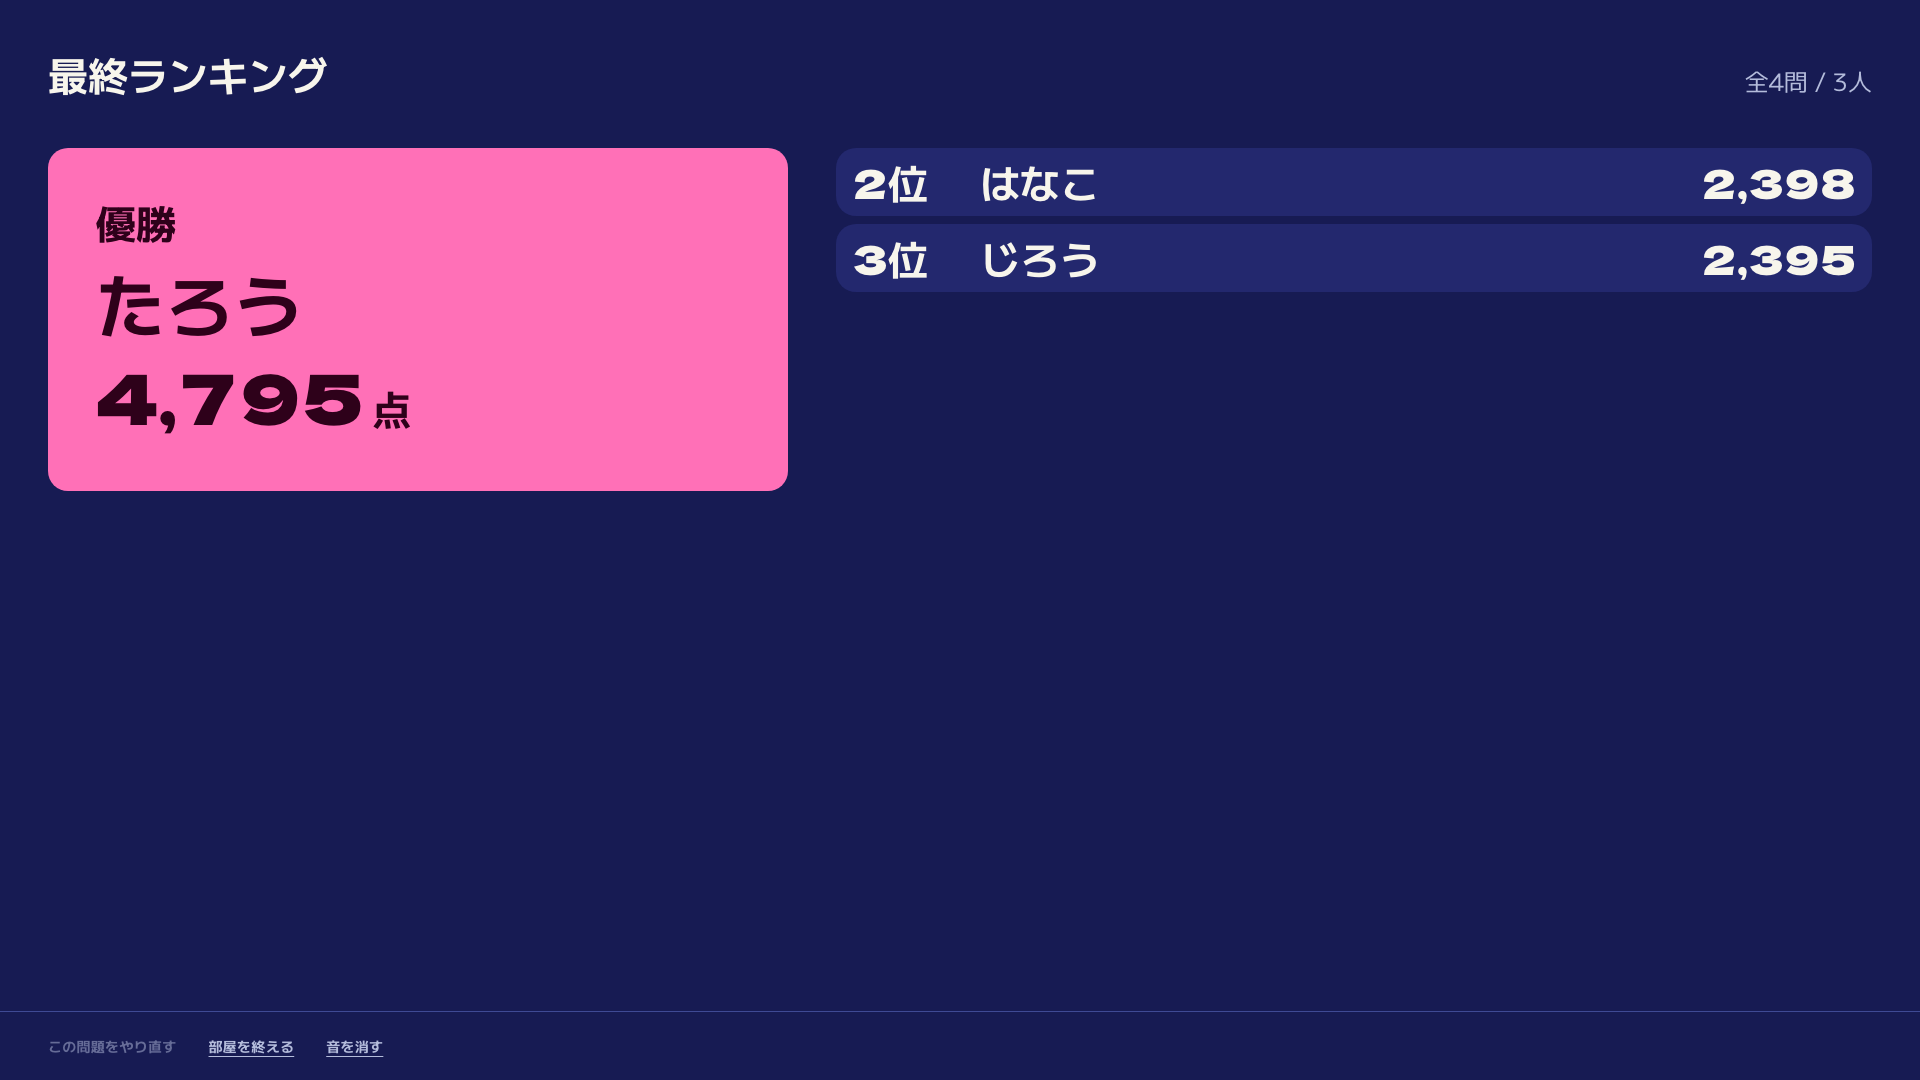
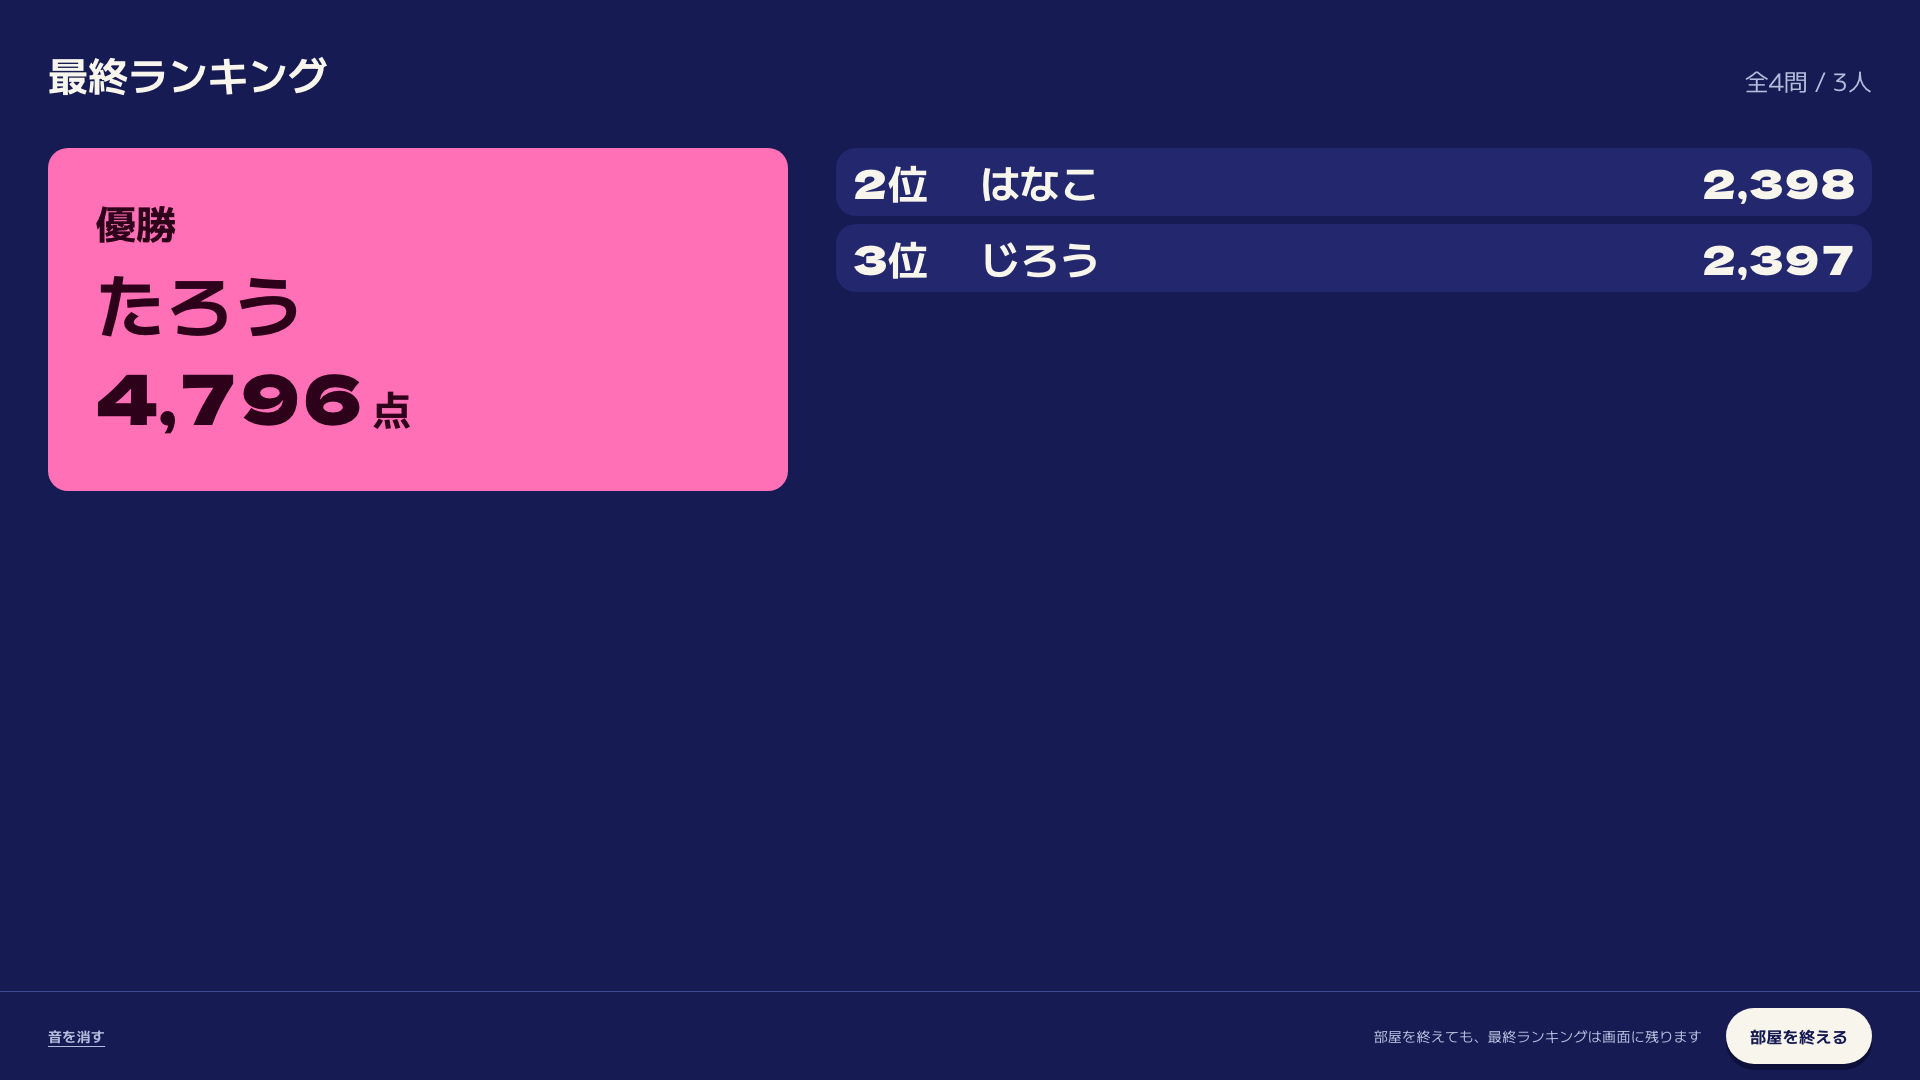
feat: 最終ランキングのあとに部屋を終えるボタンを出し、全員が答えたことを知らせる
最終ランキングでは進行の帯の右が空になり、初めてのホストは終わり方が分からなかった。
押せないやり直しと左下の小さな終了をやめ、右の主ボタンに「部屋を終える」を出す。
終えても最終ランキングは画面に残るので、そのことを横に書き、見せ続けるために待たなくてよいと伝える。

受付中に全員が答えても、帯の文は「時間になると自動で締め切ります」のままだった。
全員が答えたら「全員が回答しました」に替えて読み上げ、締め切るかはホストに任せる。

diff --git a/apps/web/src/features/host/HostControls.tsx b/apps/web/src/features/host/HostControls.tsx
@@ -1,8 +1,10 @@
 import { canSend, type HostCommand, type RoomPhase, type RoomSnapshot } from '@zubatto-quiz/protocol';
 import { useRef } from 'react';
 
+import { useAnnouncement } from '@/components/a11y/announce';
 import { Button } from '@/components/ui/button';
 import { ConfirmDialog, useConfirm } from '@/components/ui/confirm-dialog';
+import type { CurrentQuestion } from '@/realtime/room-store';
 import type { SoundPlayer } from '@/shared/sound/sound-player';
 import { SoundToggle } from '@/shared/sound/SoundToggle';
 
@@ -10,6 +12,8 @@ import { forwardCommandsOf } from './host-commands';
 
 export interface HostControlsProps {
   room: RoomSnapshot;
+  /** 今の問題の回答した人数。受付中に全員が答えたかを、説明の文で伝える */
+  progress: CurrentQuestion['progress'];
   /** host-room の send。接続が開いていなければ false を返す */
   onSend: (command: HostCommand) => boolean;
   /** 効果音の切り替え（F18）を、やり直しと終了の並びに出す */
@@ -18,13 +22,15 @@ export interface HostControlsProps {
 
 /**
  * 進行の操作の帯（F8・F14・F15・A3）。画面の下に固定し、スマホでも親指で押せるようにする。
- * 進む操作は、今の段階で押せるものだけを出す（host-commands.ts）。やり直しと終了はいつも出し、押せないときは disabled にする。
+ * 進む操作は、今の段階で押せるものだけを出す（host-commands.ts）。やり直しと終了は左に出し、やり直しを押せないときは disabled にする。
+ * ただし最終ランキングのあとは進む操作がないので、右の主ボタンの場所に「部屋を終える」を出し、左の2つは出さない（もうやり直せない）。
  * 効果音の切り替えも、目立たないようにやり直しと終了の並びに置く。
+ * 受付中に全員が答えたら、説明の文を替えて読み上げる。締め切るかはホストが決めるので、自動では締め切らない。
  * やり直しと終了は、帯の中に ConfirmDialog を出して確かめてから送る。ページを止める window.confirm と違い、確かめるあいだも残り時間と受信が止まらない。
  * 確かめる表示を閉じたら、開いたボタンへフォーカスを戻す（useConfirm）。
  * 段階が変わったら、呼び出し側で key を変えて作り直し、確かめている途中の状態を捨てる。フォーカスは呼び出し側が見出しへ移す
  */
-export function HostControls({ room, onSend, sound }: HostControlsProps) {
+export function HostControls({ room, progress, onSend, sound }: HostControlsProps) {
   // 誤って押すと戻せないので、確かめてから送る操作
   const confirm = useConfirm<'retry' | 'end'>();
   const retryButton = useRef<HTMLButtonElement>(null);
@@ -32,7 +38,11 @@ export function HostControls({ room, onSend, sound }: HostControlsProps) {
   const forward = forwardCommandsOf(room);
   const retry: HostCommand | null =
     room.questionIndex === null ? null : { type: 'retryQuestion', questionIndex: room.questionIndex };
-  const hint = hintOf(room.phase);
+  const finished = room.phase === 'final';
+  const allAnswered = room.phase === 'accepting' && isAllAnswered(progress);
+  const hint = allAnswered ? allAnsweredMessage : hintOf(room.phase);
+  // 段階ごとに作り直されるので、同じ問題の受付中に1回だけ読む。人が増えて全員でなくなり、また全員になったら、もう一度読む
+  useAnnouncement(allAnswered ? allAnsweredMessage : null);
 
   function sendConfirmed(command: HostCommand) {
     // 送れなかったら（つなぎ直している）、確かめる表示を残して、押し直せるようにする
@@ -65,21 +75,33 @@ export function HostControls({ room, onSend, sound }: HostControlsProps) {
         <div className="flex flex-wrap items-center gap-x-6 gap-y-3">
           {/* 間はボタンの左右の余白（px-4）でとり、-mx-4 で文字の端を帯の余白にそろえる */}
           <div className="-mx-4 flex flex-wrap">
-            <Button
-              ref={retryButton}
-              variant="link"
-              size="sm"
-              disabled={retry === null || !canSend(room, retry)}
-              onClick={() => confirm.open('retry', retryButton)}
-            >
-              この問題をやり直す
-            </Button>
-            <Button ref={endButton} variant="link" size="sm" onClick={() => confirm.open('end', endButton)}>
-              部屋を終える
-            </Button>
+            {!finished && (
+              <>
+                <Button
+                  ref={retryButton}
+                  variant="link"
+                  size="sm"
+                  disabled={retry === null || !canSend(room, retry)}
+                  onClick={() => confirm.open('retry', retryButton)}
+                >
+                  この問題をやり直す
+                </Button>
+                <Button ref={endButton} variant="link" size="sm" onClick={() => confirm.open('end', endButton)}>
+                  部屋を終える
+                </Button>
+              </>
+            )}
             <SoundToggle sound={sound} variant="link" size="sm" />
           </div>
           {hint !== null && <p className="text-note text-muted-foreground lg:ml-auto">{hint}</p>}
+          {finished && (
+            // 説明がいつも左にあるので、forward の箱と違って lg:ml-auto は要らない
+            <div className="flex w-full lg:w-auto">
+              <Button ref={endButton} size="lg" onClick={() => confirm.open('end', endButton)} className={stretch}>
+                部屋を終える
+              </Button>
+            </div>
+          )}
           {forward.length > 0 && (
             <div className={`flex w-full flex-wrap gap-3 lg:w-auto ${hint === null ? 'lg:ml-auto' : ''}`}>
               {forward.map((command, index) => (
@@ -126,6 +148,13 @@ function labelOf(command: HostCommand): string {
   }
 }
 
+const allAnsweredMessage = '全員が回答しました';
+
+/** 参加者の全員が今の問題に答えたか。人数がまだ届いていないときと、参加者がいないときは言わない */
+function isAllAnswered(progress: CurrentQuestion['progress']): boolean {
+  return progress !== null && progress.participantCount > 0 && progress.answeredCount >= progress.participantCount;
+}
+
 /** ボタンの横に出す、ホストへの説明。投影に映っても邪魔にならないよう、小さく出す */
 function hintOf(phase: RoomPhase): string | null {
   switch (phase) {
@@ -133,6 +162,9 @@ function hintOf(phase: RoomPhase): string | null {
       return '読み上げが終わったら押してください。回答者の画面に選択肢が出ます';
     case 'accepting':
       return '時間になると自動で締め切ります';
+    case 'final':
+      // 終えても HostEndedBar と回答者の ConnectionNotice が最終ランキングを残す（roomEndOf の after_final）
+      return '部屋を終えても、最終ランキングは画面に残ります';
     default:
       return null;
   }

diff --git a/apps/web/src/features/host/HostControls.test.tsx b/apps/web/src/features/host/HostControls.test.tsx
@@ -1,11 +1,14 @@
-import { fireEvent, render, screen, within } from '@testing-library/react';
+import { act, fireEvent, render, screen, within } from '@testing-library/react';
 import type { HostCommand, RoomPhase, RoomSnapshot } from '@zubatto-quiz/protocol';
-import { describe, expect, it, vi } from 'vitest';
+import { afterEach, beforeEach, describe, expect, it, vi } from 'vitest';
 
+import { ANNOUNCE_DELAY_MS } from '@/components/a11y/announce';
+import { Announcer } from '@/components/a11y/Announcer';
 import { createSoundPlayer } from '@/shared/sound/sound-player';
 
 import { recordSounds } from '../../../test/fake-sound';
-import { HostControls } from './HostControls';
+import { liveRegion } from '../../../test/live-region';
+import { HostControls, type HostControlsProps } from './HostControls';
 
 /** 5問の部屋。最後の2問は第4問と第5問 */
 const room = (phase: RoomPhase, questionIndex: number | null): RoomSnapshot => ({
@@ -15,10 +18,20 @@ const room = (phase: RoomPhase, questionIndex: number | null): RoomSnapshot => (
   questionIndex,
 });
 
-function renderControls(snapshot: RoomSnapshot) {
+function renderControls(snapshot: RoomSnapshot, progress: HostControlsProps['progress'] = null) {
   const onSend = vi.fn<(command: HostCommand) => boolean>(() => true);
   // 音の切り替えは最後の describe で確かめる。ほかでは Web Audio のない端末にして出さない
-  render(<HostControls room={snapshot} onSend={onSend} sound={createSoundPlayer({ createContext: null })} />);
+  render(
+    <>
+      <Announcer />
+      <HostControls
+        room={snapshot}
+        progress={progress}
+        onSend={onSend}
+        sound={createSoundPlayer({ createContext: null })}
+      />
+    </>,
+  );
   return { onSend };
 }
 
@@ -61,7 +74,6 @@ describe('進行の操作のボタン（F8・F14・F15）', () => {
     ['③ のあとは次の問題', room('standings', 0), ['第2問を出す']],
     ['最後から2問目の ② は ③ を出さない（F15）', room('fastest', 3), ['第5問を出す']],
     ['最後の問題の ② のあとは最終ランキング', room('fastest', 4), ['最終ランキングを出す']],
-    ['最終ランキングのあとは進む操作がない', room('final', 4), []],
   ])('締切のあと: %s', (_case, snapshot, names) => {
     renderControls(snapshot);
 
@@ -95,11 +107,68 @@ describe('やり直し（A3）', () => {
   it.each<[string, RoomSnapshot]>([
     ['待機', room('lobby', null)],
     ['締切のあと（得点は確定している）', room('revealed', 2)],
-    ['最終ランキング', room('final', 4)],
   ])('%s は押せない', (_case, snapshot) => {
     renderControls(snapshot);
 
     expect(screen.getByRole('button', { name: 'この問題をやり直す' })).toBeDisabled();
+  });
+});
+
+describe('受付中の説明（F9）', () => {
+  beforeEach(() => {
+    vi.useFakeTimers();
+  });
+  afterEach(() => {
+    vi.useRealTimers();
+  });
+
+  it('まだ答えていない人がいるあいだは、時間になると締め切ることを出し、読み上げない', () => {
+    renderControls(room('accepting', 2), { answeredCount: 3, participantCount: 4 });
+    act(() => vi.advanceTimersByTime(ANNOUNCE_DELAY_MS));
+
+    expect(screen.getByText('時間になると自動で締め切ります')).toBeInTheDocument();
+    expect(liveRegion('polite')).toBeEmptyDOMElement();
+  });
+
+  it('全員が答えたら、そう出して読み上げる。締め切るかはホストが決めるので、ボタンはそのまま', () => {
+    renderControls(room('accepting', 2), { answeredCount: 4, participantCount: 4 });
+    act(() => vi.advanceTimersByTime(ANNOUNCE_DELAY_MS));
+
+    expect(screen.getByText('全員が回答しました', { selector: 'p' })).toBeInTheDocument();
+    expect(liveRegion('polite')).toHaveTextContent(/^全員が回答しました$/);
+    expect(forwardButtonNames()).toEqual(['いま締め切る']);
+  });
+
+  it.each<[string, HostControlsProps['progress']]>([
+    ['回答した人数がまだ届いていない', null],
+    ['参加者がいない（0 / 0 人）', { answeredCount: 0, participantCount: 0 }],
+  ])('%s ときは、全員とは言わない', (_case, progress) => {
+    renderControls(room('accepting', 2), progress);
+
+    expect(screen.getByText('時間になると自動で締め切ります')).toBeInTheDocument();
+  });
+});
+
+describe('最終ランキングのあと', () => {
+  it('右の主ボタンに「部屋を終える」だけを出し、押せないやり直しと左の終了は出さない', () => {
+    renderControls(room('final', 4));
+
+    expect(screen.getAllByRole('button').map((button) => button.textContent)).toEqual(['部屋を終える']);
+    expect(screen.getByText('部屋を終えても、最終ランキングは画面に残ります')).toBeInTheDocument();
+  });
+
+  it('主ボタンも確かめてから終了を送り、「やめる」で主ボタンへフォーカスを戻す', () => {
+    const { onSend } = renderControls(room('final', 4));
+
+    fireEvent.click(screen.getByRole('button', { name: '部屋を終える' }));
+    fireEvent.click(screen.getByRole('button', { name: 'やめる' }));
+    expect(onSend).not.toHaveBeenCalled();
+    expect(document.activeElement).toBe(screen.getByRole('button', { name: '部屋を終える' }));
+
+    fireEvent.click(screen.getByRole('button', { name: '部屋を終える' }));
+    const dialog = screen.getByRole('alertdialog', { name: /部屋を終えます/ });
+    fireEvent.click(within(dialog).getByRole('button', { name: '部屋を終える' }));
+    expect(onSend).toHaveBeenCalledWith({ type: 'endRoom' });
   });
 });
 
@@ -169,7 +238,7 @@ describe('確かめる表示のフォーカス', () => {
 describe('効果音の切り替え（F18）', () => {
   it('やり直しと終了の並びに「音を消す」を出し、押すと音を消す', () => {
     const sound = recordSounds();
-    render(<HostControls room={room('accepting', 0)} onSend={() => true} sound={sound} />);
+    render(<HostControls room={room('accepting', 0)} progress={null} onSend={() => true} sound={sound} />);
 
     fireEvent.click(screen.getByRole('button', { name: '音を消す' }));
 

diff --git a/apps/web/src/features/host/HostControls.stories.tsx b/apps/web/src/features/host/HostControls.stories.tsx
@@ -30,12 +30,13 @@ const sound: SoundPlayer = {
  * 進行の操作の帯（F8・F14・F15・A3）。今の段階で押せる進む操作だけを右に出し、最後のものをいちばん目立たせる。
  * やり直しと終了は、押すと帯の中で確かめる（確かめる表示は ConfirmDialog の Host のストーリーにある）。
  * やり直せるのは出題と受付中だけで（protocol の room-flow.ts）、ほかの段階ではやり直しのボタンが薄くなって押せない。
+ * 最終ランキングのあとは、右の主ボタンの場所に「部屋を終える」を出す。
  * onSend は送れたことにして true を返すので、確かめる表示を開いて「やり直す」まで押せる。
  * 進行画面の下に固定するので、暗い面に置き、投影の大きさで見る。ホストがスマホで進めるときの並びは Mobile で見る
  */
 const meta = {
   component: HostControls,
-  args: { room: room('question', 2), onSend: fn(() => true), sound },
+  args: { room: room('question', 2), progress: null, onSend: fn(() => true), sound },
   argTypes: { sound: { control: false } },
   globals: { surface: 'stage', viewport: { value: 'projector', isRotated: false } },
 } satisfies Meta<typeof HostControls>;
@@ -54,7 +55,12 @@ export const Question: Story = {};
 
 /** 受付中。時間を待たずに締め切れる */
 export const Accepting: Story = {
-  args: { room: room('accepting', 2) },
+  args: { room: room('accepting', 2), progress: { answeredCount: 3, participantCount: 4 } },
+};
+
+/** 受付中に全員が答えた。説明の文が替わり、同じ文を読み上げる。締め切るかはホストが決める */
+export const AcceptingAllAnswered: Story = {
+  args: { room: room('accepting', 2), progress: { answeredCount: 4, participantCount: 4 } },
 };
 
 /** ① のあと。② の発表だけ（F14） */
@@ -77,7 +83,7 @@ export const FastestLast: Story = {
   args: { room: room('fastest', 9) },
 };
 
-/** 最終ランキング。進む操作はなく、やり直しと終了だけが残る */
+/** 最終ランキング。進む操作がないので、右の主ボタンで部屋を終える。もうやり直せないので、左には音の切り替えだけが残る */
 export const Final: Story = {
   args: { room: room('final', 9) },
 };

diff --git a/apps/web/src/routes/rooms/$roomId/host.test.tsx b/apps/web/src/routes/rooms/$roomId/host.test.tsx
@@ -522,6 +522,30 @@ describe('ホストの操作のあとのフォーカス', () => {
     expect(screen.getByRole('heading', { level: 1, name: '日本一高い山は？' })).toBeInTheDocument();
     expect(document.activeElement).toBe(document.body);
   });
+
+  it('最終ランキングを出したら、見出しへフォーカスを移し、右に出る「部屋を終える」へは移さない', async () => {
+    stubFakeApi();
+    const { server } = await openHostPage();
+    // 10問の部屋の最後の問題の ② のあとから始める
+    act(() => {
+      server.latest.open();
+      server.latest.emit({ type: 'hostReady', room: { ...ROOM, phase: 'fastest', questionIndex: 9 } });
+      server.latest.emit({ type: 'participants', participants: [TARO] });
+    });
+
+    press('最終ランキングを出す');
+    act(() =>
+      server.latest.emit({
+        type: 'finalRanking',
+        questionCount: 10,
+        entries: [{ ...TARO, rank: 1, totalScore: 9000 }],
+      }),
+    );
+
+    // ほかの段階と同じく見出しへ移す。主ボタンへ移すと、続けて押した Enter で終える確かめが開いてしまう
+    expect(screen.getByRole('button', { name: '部屋を終える' })).toBeInTheDocument();
+    expect(document.activeElement).toBe(screen.getByRole('heading', { level: 2, name: '最終ランキング' }));
+  });
 });
 
 describe('効果音（F18）', () => {

diff --git a/apps/web/src/features/guide/guide-steps.ts b/apps/web/src/features/guide/guide-steps.ts
@@ -91,7 +91,8 @@ export const hostSteps: readonly GuideStep[] = [
   },
   {
     heading: '最終ランキングを出す',
-    description: '最後の問題のあと、「最終ランキングを出す」で優勝者と全員の順位を見せて終わります。',
+    description:
+      '最後の問題のあと、「最終ランキングを出す」で優勝者と全員の順位を見せます。見せ終えたら「部屋を終える」で閉じます。終えても、最終ランキングは画面に残ります。',
     image: 'host-final',
     alt: '投影する最終ランキングの画面。優勝した人の名前が大きく出て、2位と3位が並ぶ',
     device: 'projector',

diff --git a/apps/web/src/features/host/HostPage.tsx b/apps/web/src/features/host/HostPage.tsx
@@ -104,7 +104,13 @@ function HostScreen({
         <HostEndedBar />
       ) : (
         // 段階が変わったら作り直し、やり直し・終了を確かめている途中の表示を、次の段階へ持ち越さない
-        <HostControls key={`${room.phase}:${room.questionIndex}`} room={room} onSend={send} sound={sound} />
+        <HostControls
+          key={`${room.phase}:${room.questionIndex}`}
+          room={room}
+          progress={question?.progress ?? null}
+          onSend={send}
+          sound={sound}
+        />
       )}
     </div>
   );
